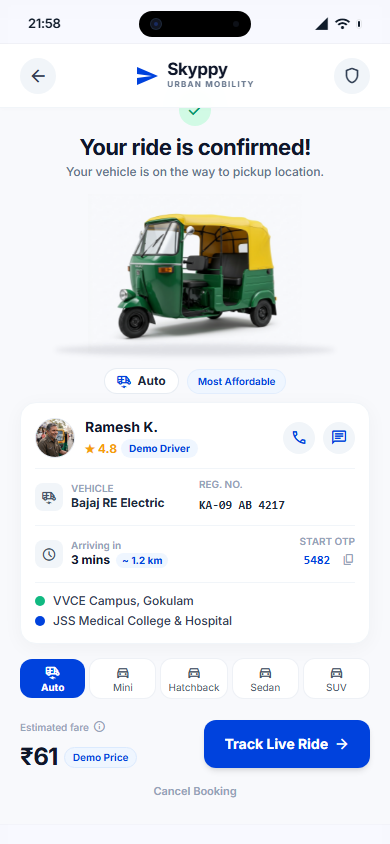
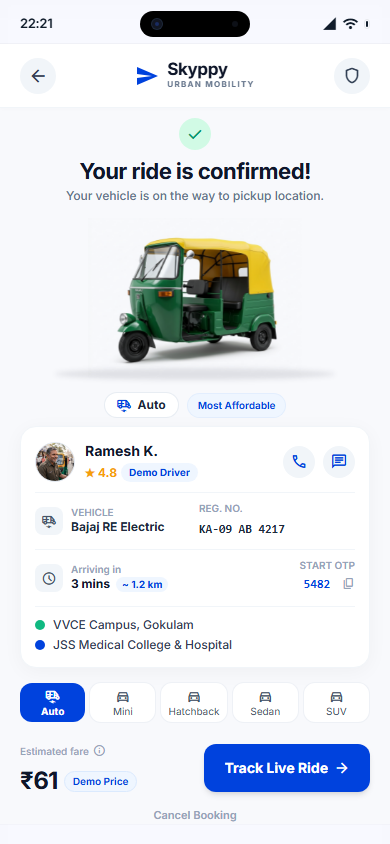
fix(mobile): resolve layout, viewport, header overflow, and hero overlap issues

diff --git a/src/components/Header.tsx b/src/components/Header.tsx
@@ -39,38 +39,42 @@ export const Header: React.FC<HeaderProps> = ({
   };
 
   return (
-    <header className="sticky top-0 left-0 right-0 w-full z-40 bg-surface/90 backdrop-blur-xl shadow-[0_1px_8px_rgba(0,0,0,0.04)] border-b border-surface-container/50">
-      <div className="flex items-center justify-between px-margin h-16">
+    <header className="sticky top-0 left-0 right-0 w-full z-40 bg-surface/95 backdrop-blur-xl shadow-[0_1px_6px_rgba(0,0,0,0.03)] border-b border-surface-container/60 shrink-0">
+      <div className="flex items-center justify-between px-3 sm:px-4 h-14 w-full">
         {type === 'tab' ? (
-          <div className="flex items-center cursor-pointer active:scale-95 transition-transform" onClick={() => navigate('/')}>
+          <div
+            className="flex items-center cursor-pointer active:scale-95 transition-transform shrink-0"
+            onClick={() => navigate('/')}
+          >
             <SkyppyLogo size="sm" subtitle={t.appSubtitle} />
           </div>
         ) : (
-          <div className="flex items-center gap-space-sm min-w-0">
+          <div className="flex items-center gap-2 min-w-0 flex-1 mr-2">
             <button
               aria-label="Go back"
               onClick={handleBack}
-              className="w-10 h-10 rounded-full bg-surface-container-low flex items-center justify-center text-on-surface hover:bg-surface-container transition-colors active:scale-95 shrink-0"
+              className="w-8.5 h-8.5 rounded-full bg-surface-container-low flex items-center justify-center text-on-surface hover:bg-surface-container transition-colors active:scale-95 shrink-0"
               type="button"
             >
-              <span className="material-symbols-outlined text-[22px]">arrow_back</span>
+              <span className="material-symbols-outlined text-[20px]">arrow_back</span>
             </button>
-            <h1 className="font-headline-md text-headline-md text-on-surface font-semibold truncate">
+            <h1 className="font-headline-md text-[17px] text-on-surface font-semibold truncate leading-tight">
               {title}
             </h1>
           </div>
         )}
 
-        <div className="flex items-center gap-2 shrink-0">
+        <div className="flex items-center gap-1 sm:gap-1.5 shrink-0">
           {type === 'tab' && (
             <button
               type="button"
               onClick={() => showToast('Mysuru Urban & Regional corridor active', 'info')}
-              className="h-8 px-2.5 rounded-full bg-[#edf3ff] text-primary border border-blue-100 font-semibold text-xs flex items-center gap-1 hover:bg-blue-100/70 transition-colors active:scale-95"
+              className="h-7.5 px-2 rounded-full bg-[#edf3ff] text-primary border border-blue-100 font-semibold text-[11px] flex items-center gap-0.5 hover:bg-blue-100/70 transition-colors active:scale-95 shrink-0"
+              title="Current City Corridor"
             >
-              <span className="material-symbols-outlined text-[16px] text-primary">location_on</span>
-              <span className="font-bold">{t.cityMysuru}</span>
-              <span className="material-symbols-outlined text-[15px] text-primary">keyboard_arrow_down</span>
+              <span className="material-symbols-outlined text-[15px] text-primary">location_on</span>
+              <span className="font-bold tracking-tight">{t.cityMysuru}</span>
+              <span className="material-symbols-outlined text-[14px] text-primary">keyboard_arrow_down</span>
             </button>
           )}
 
@@ -79,11 +83,11 @@ export const Header: React.FC<HeaderProps> = ({
             type="button"
             aria-label="Switch language English or Kannada"
             onClick={toggleLanguage}
-            className="h-8 px-2 rounded-full bg-surface-container text-xs font-bold text-primary hover:bg-surface-container-high transition-colors flex items-center gap-0.5 active:scale-95"
+            className="h-7.5 px-2 rounded-full bg-surface-container text-[11px] font-bold text-primary hover:bg-surface-container-high transition-colors flex items-center gap-1 active:scale-95 shrink-0"
             title="Switch Language (English / ಕನ್ನಡ)"
           >
             <span className="material-symbols-outlined text-[14px]">translate</span>
-            <span className="text-[11px]">{language === 'en' ? 'ಕನ್ನಡ' : 'EN'}</span>
+            <span className="tracking-tight">{language === 'en' ? 'ಕನ್ನಡ' : 'EN'}</span>
           </button>
 
           {rightAction === 'default' ? (
@@ -92,20 +96,22 @@ export const Header: React.FC<HeaderProps> = ({
                 <button
                   aria-label="Notifications"
                   onClick={() => openModal('notifications')}
-                  className="w-8 h-8 rounded-full bg-[#f1f5f9] flex items-center justify-center text-slate-700 hover:bg-slate-200 transition-colors relative active:scale-95"
+                  className="w-7.5 h-7.5 rounded-full bg-[#f1f5f9] flex items-center justify-center text-slate-700 hover:bg-slate-200 transition-colors relative active:scale-95 shrink-0"
                   type="button"
                 >
-                  <span className="material-symbols-outlined text-[19px]">notifications</span>
-                  <span className="absolute top-1 right-1 w-2 h-2 rounded-full bg-orange-500 ring-2 ring-white"></span>
+                  <span className="material-symbols-outlined text-[18px]">notifications</span>
+                  {unreadCount > 0 && (
+                    <span className="absolute top-1 right-1 w-2 h-2 rounded-full bg-orange-500 ring-2 ring-white"></span>
+                  )}
                 </button>
               ) : (
                 <button
                   aria-label="Help & Safety"
                   onClick={() => openModal('safety')}
-                  className="w-9 h-9 rounded-full bg-surface-container-low flex items-center justify-center text-on-surface hover:bg-surface-container transition-colors"
+                  className="w-8.5 h-8.5 rounded-full bg-surface-container-low flex items-center justify-center text-on-surface hover:bg-surface-container transition-colors active:scale-95 shrink-0"
                   type="button"
                 >
-                  <span className="material-symbols-outlined text-[19px] text-secondary">shield</span>
+                  <span className="material-symbols-outlined text-[18px] text-secondary">shield</span>
                 </button>
               )}
 
@@ -113,9 +119,9 @@ export const Header: React.FC<HeaderProps> = ({
                 type="button"
                 aria-label="Profile Account"
                 onClick={() => navigate('/profile')}
-                className="w-8 h-8 rounded-full bg-primary text-white flex items-center justify-center shadow-xs active:scale-95 transition-transform"
+                className="w-7.5 h-7.5 rounded-full bg-primary text-white flex items-center justify-center shadow-xs active:scale-95 transition-transform shrink-0"
               >
-                <span className="material-symbols-outlined text-[18px]">person</span>
+                <span className="material-symbols-outlined text-[17px]">person</span>
               </button>
             </>
           ) : (

diff --git a/src/components/DeviceFrame.tsx b/src/components/DeviceFrame.tsx
@@ -51,14 +51,14 @@ export const DeviceFrame: React.FC<DeviceFrameProps> = ({ children }) => {
         <div className="relative flex-1 w-full bg-surface sm:rounded-[42px] overflow-hidden flex flex-col [transform:translateZ(0)] isolate select-auto shadow-inner">
           
           {/* REALISTIC STATUS BAR */}
-          <div className="h-11 w-full bg-surface/95 backdrop-blur-md px-7 pt-1 flex items-center justify-between z-50 shrink-0 select-none border-b border-black/[0.03]">
+          <div className="h-11 w-full bg-surface/95 backdrop-blur-md px-5 sm:px-6 pt-1 flex items-center justify-between z-50 shrink-0 select-none border-b border-black/[0.03]">
             {/* Live Clock */}
             <span className="text-[13px] font-semibold text-on-surface tracking-tight w-12 text-left">
               {timeStr}
             </span>
 
             {/* Dynamic Island Pill */}
-            <div className="w-[112px] h-[26px] bg-black rounded-full flex items-center justify-between px-3 shadow-inner">
+            <div className="w-[110px] h-[26px] bg-black rounded-full flex items-center justify-between px-3 shadow-inner">
               {/* Front Camera Lens */}
               <div className="w-2.5 h-2.5 rounded-full bg-[#121622] ring-1 ring-slate-800 flex items-center justify-center">
                 <div className="w-1 h-1 rounded-full bg-blue-900/60" />
@@ -83,7 +83,8 @@ export const DeviceFrame: React.FC<DeviceFrameProps> = ({ children }) => {
           <div
             ref={scrollRef}
             id="mobile-app-viewport"
-            className="flex-1 w-full bg-surface relative overflow-y-auto overflow-x-hidden flex flex-col"
+            className="flex-1 w-full bg-surface relative overflow-y-auto overflow-x-hidden flex flex-col overscroll-contain"
+            style={{ WebkitOverflowScrolling: 'touch' }}
           >
             {children}
           </div>

diff --git a/tests/test_scroll.spec.ts b/tests/test_scroll.spec.ts
@@ -1,0 +1,28 @@
+import { test, expect } from '@playwright/test';
+
+test('Scroll down home screen and verify all sections visible', async ({ page }) => {
+  await page.setViewportSize({ width: 390, height: 844 });
+  await page.goto('/');
+  await page.waitForLoadState('networkidle');
+
+  // Check header is visible
+  await expect(page.locator('header')).toBeVisible();
+
+  // Scroll mobile viewport down
+  await page.evaluate(() => {
+    const el = document.getElementById('mobile-app-viewport');
+    if (el) el.scrollTop = 400;
+  });
+
+  await page.waitForTimeout(300);
+  await page.screenshot({ path: 'tests/screenshots/home_scrolled.png' });
+
+  // Scroll all the way to bottom
+  await page.evaluate(() => {
+    const el = document.getElementById('mobile-app-viewport');
+    if (el) el.scrollTop = el.scrollHeight;
+  });
+
+  await page.waitForTimeout(300);
+  await page.screenshot({ path: 'tests/screenshots/home_bottom.png' });
+});

diff --git a/src/components/SkyppyLogo.tsx b/src/components/SkyppyLogo.tsx
@@ -48,8 +48,8 @@ export const SkyppyLogo: React.FC<SkyppyLogoProps> = ({
   className = ''
 }) => {
   const sizeMap = {
-    xs: { icon: 24, text: 'text-lg', sub: 'text-[9px]' },
-    sm: { icon: 32, text: 'text-xl', sub: 'text-[10px]' },
+    xs: { icon: 24, text: 'text-base', sub: 'text-[8.5px]' },
+    sm: { icon: 28, text: 'text-[18px]', sub: 'text-[9px]' },
     md: { icon: 40, text: 'text-2xl', sub: 'text-[11px]' },
     lg: { icon: 52, text: 'text-3xl', sub: 'text-xs' },
     xl: { icon: 68, text: 'text-4xl', sub: 'text-sm' }
@@ -71,7 +71,7 @@ export const SkyppyLogo: React.FC<SkyppyLogoProps> = ({
       : 'text-secondary dark:text-secondary-fixed';
 
   return (
-    <div className={`inline-flex items-center gap-2.5 ${className}`}>
+    <div className={`inline-flex items-center gap-2 ${className}`}>
       <SkyppyEmblem
         size={currentSize.icon}
         color={variant === 'white' ? '#ffffff25' : '#366eb6'}

diff --git a/tests/inspect_viewports.spec.ts b/tests/inspect_viewports.spec.ts
@@ -1,0 +1,22 @@
+import { test } from '@playwright/test';
+
+const viewports = [
+  { width: 360, height: 800, name: '360x800' },
+  { width: 375, height: 812, name: '375x812' },
+  { width: 390, height: 844, name: '390x844' },
+  { width: 412, height: 915, name: '412x915' }
+];
+
+for (const vp of viewports) {
+  test(`Inspect layout at ${vp.name}`, async ({ page }) => {
+    await page.setViewportSize({ width: vp.width, height: vp.height });
+    await page.goto('/');
+    await page.waitForLoadState('networkidle');
+    await page.screenshot({ path: `tests/screenshots/home_${vp.name}.png` });
+
+    // Also take screenshot of courier home
+    await page.goto('/courier');
+    await page.waitForLoadState('networkidle');
+    await page.screenshot({ path: `tests/screenshots/courier_${vp.name}.png` });
+  });
+}

diff --git a/src/pages/CourierHome.tsx b/src/pages/CourierHome.tsx
@@ -62,8 +62,8 @@ export const CourierHome: React.FC = () => {
         </div>
 
         {/* ==================== 2. PRIMARY SERVICE SWITCHER ==================== */}
-        <div className="-mt-4 px-margin relative z-20">
-          <div className="bg-white rounded-2xl p-1.5 shadow-[0_8px_25px_rgba(16,28,43,0.08)] border border-slate-100 flex items-center gap-1.5">
+        <div className="mt-3 px-margin relative z-10">
+          <div className="bg-white rounded-2xl p-1.5 shadow-[0_4px_20px_rgba(16,28,43,0.06)] border border-slate-100 flex items-center gap-1.5">
             {/* Book a Ride Button (Inactive) */}
             <button
               type="button"

diff --git a/src/pages/RidesHome.tsx b/src/pages/RidesHome.tsx
@@ -58,8 +58,8 @@ export const RidesHome: React.FC = () => {
         </div>
 
         {/* ==================== 2. PRIMARY SERVICE SWITCHER ==================== */}
-        <div className="-mt-4 px-margin relative z-20">
-          <div className="bg-white rounded-2xl p-1.5 shadow-[0_8px_25px_rgba(16,28,43,0.08)] border border-slate-100 flex items-center gap-1.5">
+        <div className="mt-3 px-margin relative z-10">
+          <div className="bg-white rounded-2xl p-1.5 shadow-[0_4px_20px_rgba(16,28,43,0.06)] border border-slate-100 flex items-center gap-1.5">
             {/* Book a Ride Button (Active) */}
             <button
               type="button"

diff --git a/src/components/BottomNav.tsx b/src/components/BottomNav.tsx
@@ -21,7 +21,7 @@ export const BottomNav: React.FC = () => {
     <nav className="w-full shrink-0 z-40 bg-surface-container-lowest/95 backdrop-blur-xl shadow-[0_-2px_12px_rgba(16,28,43,0.05)] border-t border-surface-container/50 select-none">
       <div className="flex justify-around items-center h-16 px-space-xs w-full">
         {tabs.map((tab) => {
-          const isActive = tab.path === '/' ? path === '/' : path.startsWith(tab.path);
+          const isActive = tab.key === 'home' ? (path === '/' || path === '/courier') : path.startsWith(tab.path);
           return (
             <button
               key={tab.key}
